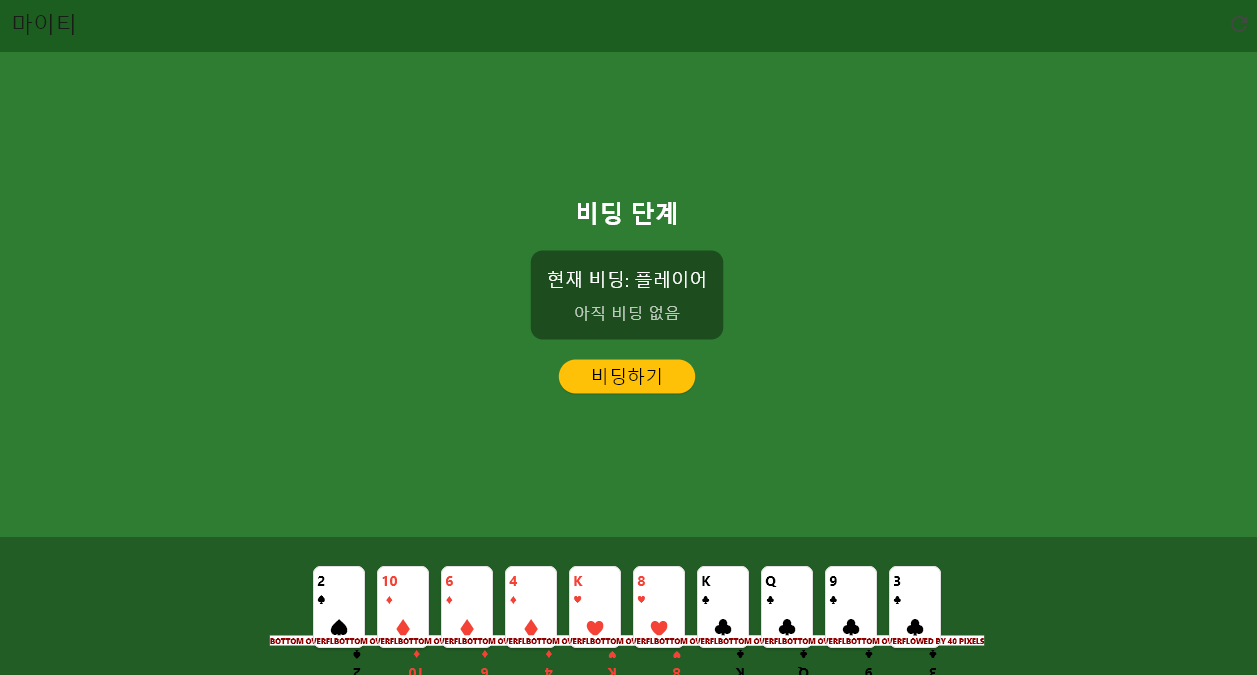
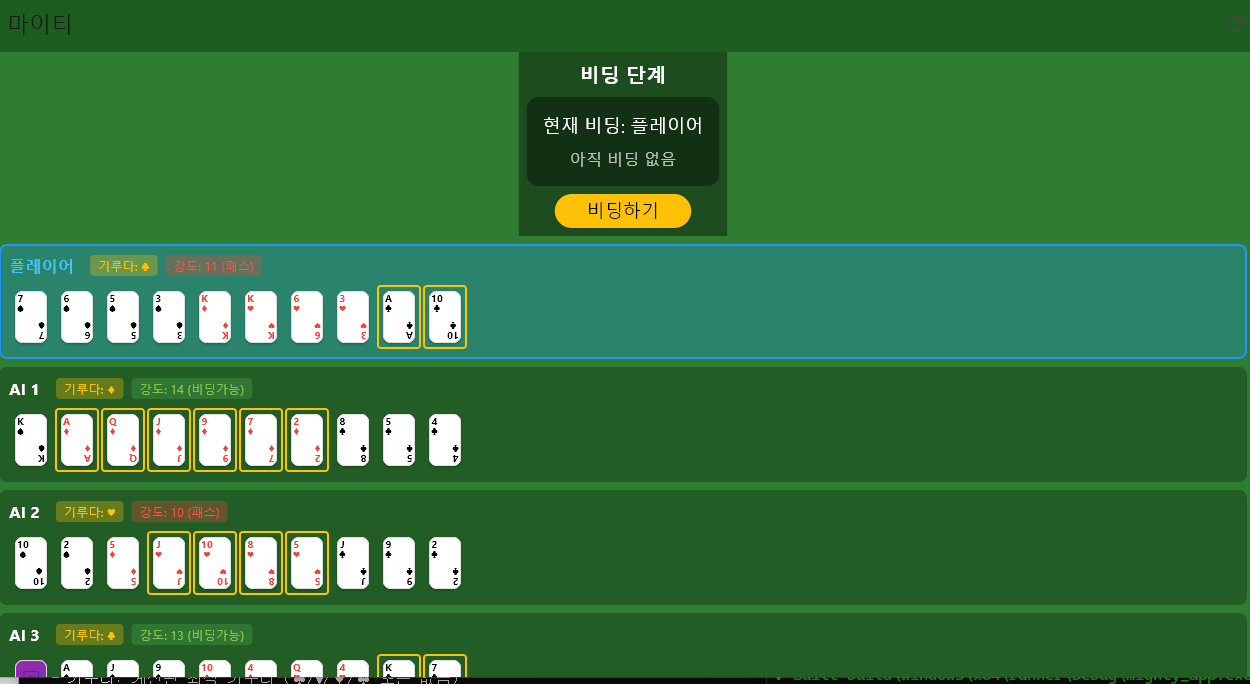
Fix bidding debug view: use Wrap layout to show all cards
- Changed from horizontal scroll Row to Wrap layout
- Cards now wrap to multiple lines if needed
- Reduced card size slightly (36x54) to fit more cards per row
- All 10 cards per player now visible

🤖 Generated with [Claude Code](https://claude.com/claude-code)

diff --git a/lib/screens/game_screen.dart b/lib/screens/game_screen.dart
@@ -230,30 +230,28 @@ class _GameScreenState extends State<GameScreen> {
             ],
           ),
           const SizedBox(height: 8),
-          SingleChildScrollView(
-            scrollDirection: Axis.horizontal,
-            child: Row(
-              children: [
-                for (final card in sortedHand)
-                  Container(
-                    margin: const EdgeInsets.only(right: 2),
-                    decoration: BoxDecoration(
-                      border: Border.all(
-                        color: (bestSuit != null && card.suit == bestSuit)
-                            ? Colors.amber
-                            : Colors.transparent,
-                        width: 2,
-                      ),
-                      borderRadius: BorderRadius.circular(4),
+          Wrap(
+            spacing: 4,
+            runSpacing: 4,
+            children: [
+              for (final card in sortedHand)
+                Container(
+                  decoration: BoxDecoration(
+                    border: Border.all(
+                      color: (bestSuit != null && card.suit == bestSuit)
+                          ? Colors.amber
+                          : Colors.transparent,
+                      width: 2,
                     ),
-                    child: CardWidget(
-                      card: card,
-                      width: 40,
-                      height: 60,
-                    ),
+                    borderRadius: BorderRadius.circular(4),
                   ),
-              ],
-            ),
+                  child: CardWidget(
+                    card: card,
+                    width: 36,
+                    height: 54,
+                  ),
+                ),
+            ],
           ),
         ],
       ),
